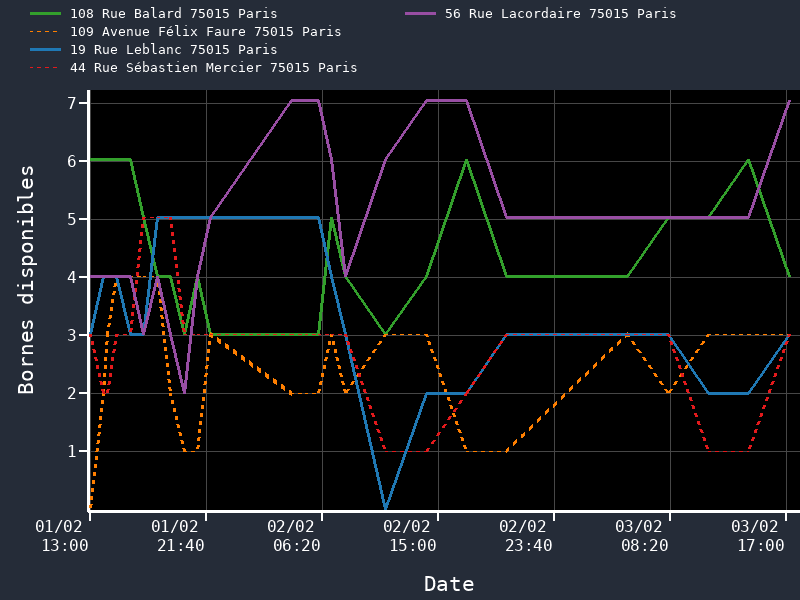
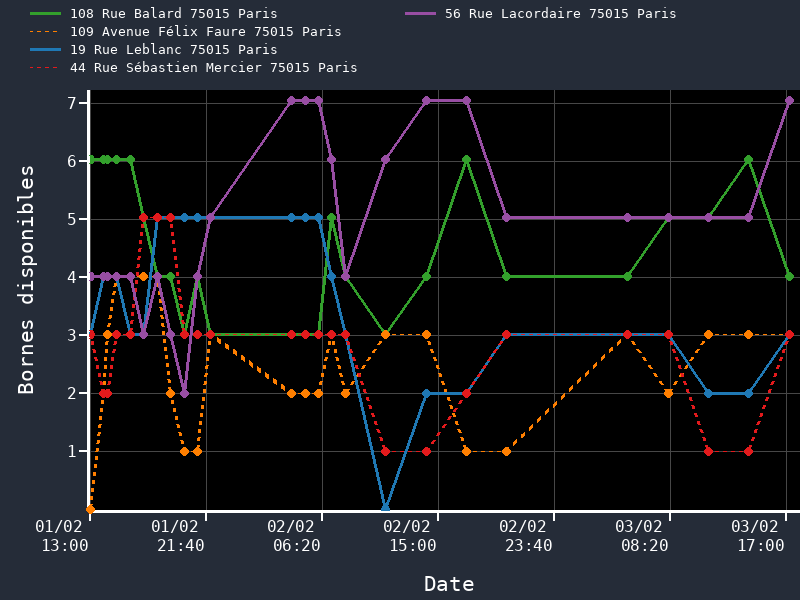
Bug corrected by introducing some gdImageTrueColor .... git add .git add .!

diff --git a/plotting_data/src/main.c b/plotting_data/src/main.c
@@ -95,7 +95,7 @@ int main(int argc, char* argv[])
 
     /* Make ylabel  ----------  A mettre apres update fig */
     int decalx_Y = 10, decaly_Y = 0;    
-    char *ylabel = "Bornes disponibles";
+    char *ylabel = "Bornes occupées";
     Make_ylabel(&fig1, ylabel, fontLabels, labelSize, white, decalx_Y, decaly_Y);
 
 
@@ -122,7 +122,7 @@ int main(int argc, char* argv[])
         Get_statut_station(nb_stations_fav, nb_rows_par_station, nb_statuts,\
                     vect_nb_dispo[st], \
                     tableau_statuts_fav,
-                    st, disponible);
+                    st, occupe);
 
         if (st % 2 != 0) {
             printf("st     : %d \n", st);
@@ -156,9 +156,24 @@ int main(int argc, char* argv[])
     {
         PlotLine(&fig1, &(lines[st]));
     }
+    PlotLine(&fig1, &(lines[0]));
+    PlotLine(&fig1, &(lines[0]));
+    PlotLine(&fig1, &(lines[0]));
+    PlotLine(&fig1, &(lines[0]));
+    PlotLine(&fig1, &(lines[0]));
+    PlotLine(&fig1, &(lines[0]));
+    PlotLine(&fig1, &(lines[0]));
+    PlotLine(&fig1, &(lines[0]));
+    PlotLine(&fig1, &(lines[0]));
+    PlotLine(&fig1, &(lines[0]));
+    PlotLine(&fig1, &(lines[0]));
+    PlotLine(&fig1, &(lines[0]));
+    PlotLine(&fig1, &(lines[0]));
+    PlotLine(&fig1, &(lines[0]));
+    PlotLine(&fig1, &(lines[0]));
 
      /* Sauvegarde du fichier png */
-    const char *filename_fig1= "fig1_dispo.png";
+    const char *filename_fig1= "fig1_occupe.png";
     Save_to_png(&fig1, dir_figures, filename_fig1);
 
     /* Destroy the image in memory. */

diff --git a/plotting_data/src/libs/plotter.h b/plotting_data/src/libs/plotter.h
@@ -514,15 +514,15 @@ void PlotLine(Figure *fig, LineData *linedata)
                 linedata->linestyle);
 
         
-        // PlotPoint(fig,\
-        //     x_plot[i] + fig->orig[0], y_plot[i] + fig->orig[1], linedata->linestyle);
+        PlotPoint(fig,\
+            x_plot[i] + fig->orig[0], y_plot[i] + fig->orig[1], linedata->linestyle);
 
-        // if (i == linedata->len_data-2) {
-        //     PlotPoint(fig,\
-        //                     x_plot[i+1] + fig->orig[0],\
-        //                     y_plot[i+1] + fig->orig[1],\
-        //                     linedata->linestyle);
-        // }
+        if (i == linedata->len_data-2) {
+            PlotPoint(fig,\
+                            x_plot[i+1] + fig->orig[0],\
+                            y_plot[i+1] + fig->orig[1],\
+                            linedata->linestyle);
+        }
 
         // gdImageLine(fig->img, x_plot[i]   + fig->orig[0],   y_plot[i] + fig->orig[1],\
         //         x_plot[i+1] + fig->orig[0], y_plot[i+1] + fig->orig[1],\
@@ -605,7 +605,7 @@ void Init_figure(Figure *fig, int figsize[2], int pad[2], int margin[2])
 
     /* Initialisation de tous les parametres*/
 
-    fig->img = gdImageCreate(figsize[0],figsize[1]);
+    fig->img = gdImageCreateTrueColor(figsize[0],figsize[1]);
     fig->pad[0] = pad[0];
     fig->pad[1] = pad[1];
     fig->orig[0] = fig->pad[0];
